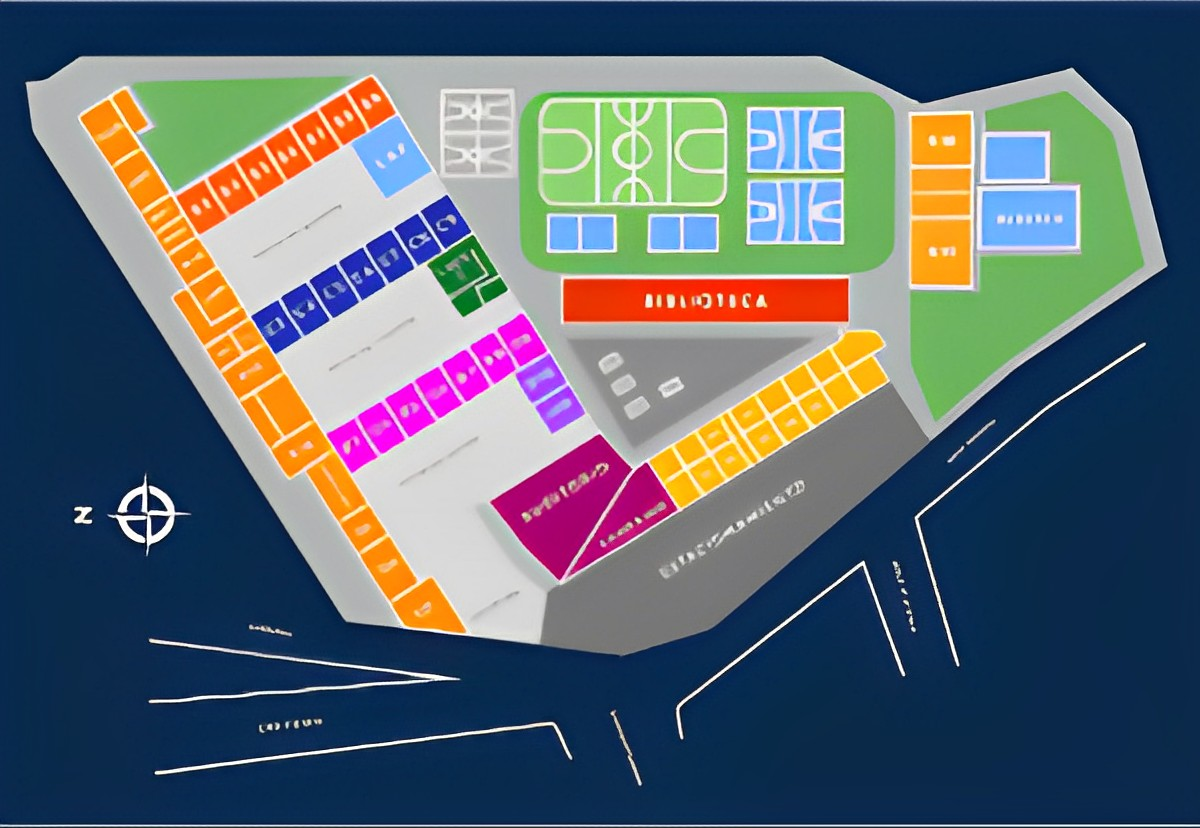
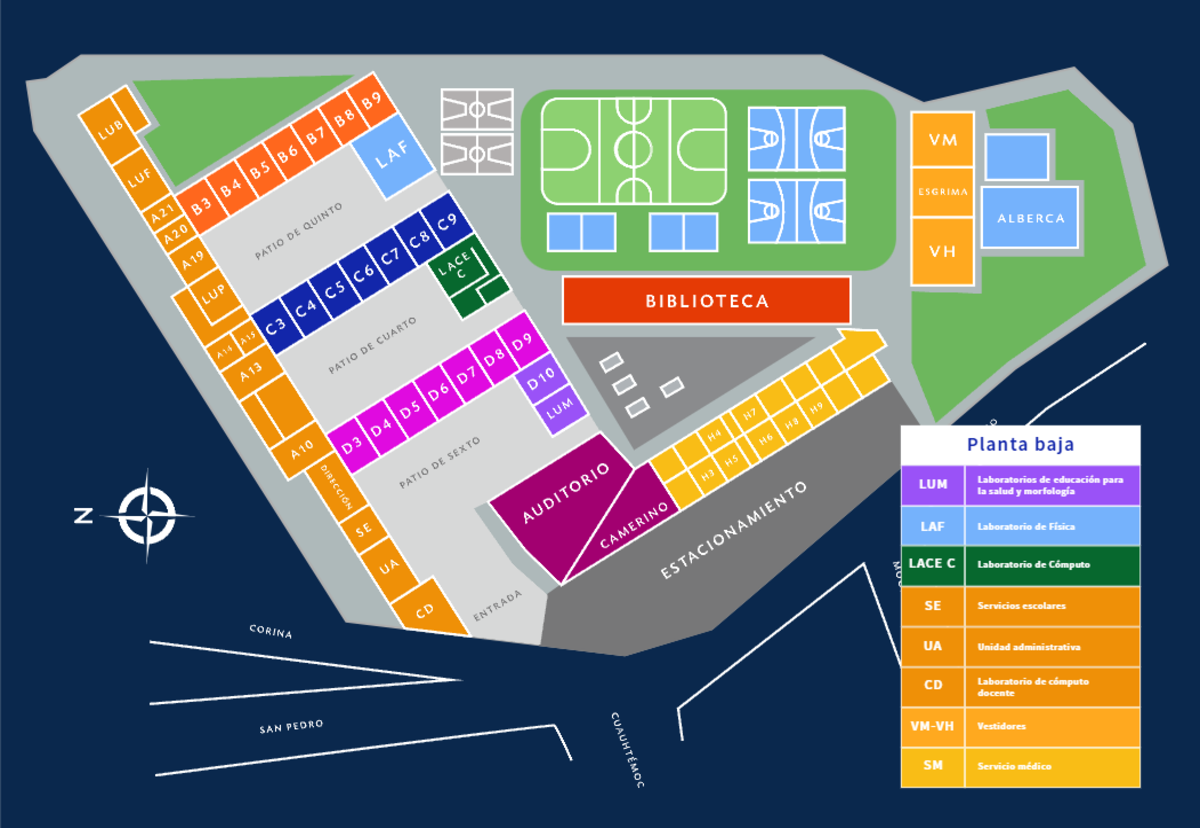
Feat: agrega apartado de juegos y comentarios, junto  con  el mapa mapeado de ventas y busqueda

diff --git a/FINAL/Dynamics/JS/juego.js b/FINAL/Dynamics/JS/juego.js
@@ -1,5 +1,5 @@
 const forogj = document.getElementById("forog");
-
+const dimensaj = document.getElementById("dimensaj")
 
 fetch("../Dynamics/PHP/juego.php")
     .then((respuesta)=>{
@@ -10,8 +10,49 @@ fetch("../Dynamics/PHP/juego.php")
         for (resultado of datosJSON)
                 {
                     forogj.innerHTML += `<div class="contlol"style= "color:white"><h1 style= "font-size: 
-                    30px">${resultado.Nombre_juego}</h1>${resultado.clasificacion}<br>${resultado.fecha_lanzamiento}<br>
-                    ${resultado.descripcion}<br>${resultado.consola}</div>`;
+                    30px"><img align="center "id="lollo" src="../Statics/media/chatsjuegos/league_logo.png" alt="Lollo"></h1>${resultado.clasificacion}<br>${resultado.fecha_lanzamiento}<br>
+                    ${resultado.descripcion}<br>${resultado.consola}<br><img align="center "id="lol" src="../Statics/media/chatsjuegos/LOL.jpeg" alt="Lol"></div>`;
                 }
 
     });
+
+    btne.addEventListener("click",()=>{
+        const desc = /^[\D\w]{3,30}$/i;
+        //descripción de 3-30 carácteres, si acepta números
+        const descrip = desc.test(input.value);
+        if(!descrip){
+            alert("Mensaje invalido, verifica que no se mayor a 30 caracteres o inferior a 3");
+        }
+        else{
+            console.log(input.value);
+            datosForm= new FormData();
+            datosForm.append("input", `${input.value}`)
+            fetch("../Dynamics/PHP/insert_mensajes.php",
+            {
+                method:"POST",
+                body:datosForm,
+            })
+            .then((respuesta)=>{
+                return respuesta.json();
+            }).then((datosJSON)=>{
+                console.log(datosJSON.mensaje);
+            });
+            window.location.href="./juego.html";
+        }
+        
+    });
+
+    fetch("../Dynamics/PHP/mensajes.php")
+    .then((respuesta)=>{
+        return respuesta.json();
+    }).then((datosJSON)=>{
+        console.log(datosJSON);
+        for (resultado of datosJSON)
+                {
+                    dimensaj.innerHTML += `<div class="mensajj"><h1 class="contm"><h1 id="usua">${resultado.Usuario}</h1>: ${resultado.Contenido} </h1></div>`;
+                }
+
+    });
+
+    
+

diff --git a/FINAL/Statics/styles/juego.css b/FINAL/Statics/styles/juego.css
@@ -226,10 +226,89 @@ header{
 {
     margin-top: 20px;
     padding-bottom: 10px;
-    background-color: #58595b;
     border-radius: 20px;
     border: 1px solid #FFFFFF;
     color: white;
+    width: 500px;
+    background-image: url(../media/chatsjuegos/lolf.png);
+
+}
+.contlol
+{
+    display: flex;
+    flex-direction: column;
+    align-items: center;
+    justify-content: center;
+}
+
+#lol{
+    width: 300px;
+}
+
+#lollo
+{
+    width: 300px;
+}
+#lollo:hover
+{
+    scale: 1.3;
+    transition: 1000ms;
+}
+
+#mensajes
+{
+    margin-top: 25px;
+}
+
+#dimensaj
+{
+    margin-top: 20px;
+    display: flex;
+    flex-direction:column-reverse ;
+}
+
+.mensajj
+{
+    margin-top: 20px;
+    font-size: 20px;
+    width: 450px;
+    background-color: #25282C;
+    color: white;
+    border-radius: 5px;
+    border: solid black 1px;
+    display: flex;
+    align-items: center;
+}
+
+input
+{
+    border-radius: 10px;
+    width: 430px;
+    background-color: #25282C;
+    color: white;
+    height: 45px;
+}
+#btne
+{
+    border-radius: 10px;
+    background-color: #25282C;
+    color: white;
+    height: 45px;
+}
+.contm
+{
+    width: fit-content;
+    color: white;
+    font-size: 7px;
+    height: 10px;
+}
+
+#usua
+{
+    width: fit-content;
+    font-size: 15px;
+    color: aqua;
+    height: 10px;
 }
 
 
@@ -269,6 +348,7 @@ header{
         background-color: #58595b;
         border-radius: 20px;
         border: 1px solid #FFFFFF;
+        
     }
 
 }

diff --git a/FINAL/Templates/juego.html b/FINAL/Templates/juego.html
@@ -73,6 +73,10 @@
                 </div>
             </div>
 
+            <div>
+                <!--<img src="" alt="">-->
+            </div>
+
         </div>
 
         <div id="contenidopc">
@@ -86,6 +90,14 @@
 
                 <div id="forog">
                     
+                </div>
+
+                <div id="mensajes">  
+                <input id="input" type="text" placeholder="Escribe un comentario" name="input"> <button type="submit" id="btne">Enviar</button>
+                </div>
+
+                <div id="dimensaj">
+
                 </div>
         </div>
 

diff --git a/FINAL/Statics/styles/Mapa.css b/FINAL/Statics/styles/Mapa.css
@@ -1,0 +1,29 @@
+body
+{
+    display: flex;
+    flex-direction: column;
+    justify-content: center;
+    align-items: center;
+    background-color: #a7a7a7;
+}
+
+#conten_error{
+    width: 300px;
+    height: 10rem;
+    display: flex;
+    flex-direction: column;
+    align-items: center;
+}
+#btn_error{
+    outline: none;
+    text-decoration: none;
+    width: 100px;
+    transition: 500ms;
+    background-color: #4777A7;
+    border-radius: 50px;
+    padding:10px;
+    color:white;
+}
+#btn_error:hover{
+    transform:scale(1.1);
+}

diff --git a/FINAL/Statics/styles/perdidos_general.css b/FINAL/Statics/styles/perdidos_general.css
@@ -161,3 +161,30 @@ scale: 1.1;
 transition: 500ms;
 cursor: pointer;
 }
+#mapa
+{
+    position: absolute;
+    top: 10rem;
+    left: 4rem;
+}
+
+@media (max-height:710px){
+
+    #contpubli
+    {
+        width: 233.33px;
+    }
+
+    h2
+    {
+        font-size: 0.8rem;
+    }
+
+    p
+    {
+        font-size: 0.8rem;
+        width:fit-content;
+        color: blue;
+        border-bottom:solid blue 1px;
+    }
+}

diff --git a/FINAL/Statics/styles/ventas_general.css b/FINAL/Statics/styles/ventas_general.css
@@ -170,6 +170,13 @@ transition: 500ms;
 cursor: pointer;
 }
 
+#mapa
+{
+    position: absolute;
+    top: 10rem;
+    left: 4rem;
+}
+
 @media (max-height:710px){
 
     #contpubli

diff --git a/FINAL/Dynamics/PHP/insert_mensajes.php b/FINAL/Dynamics/PHP/insert_mensajes.php
@@ -1,0 +1,27 @@
+<?php
+require "config.php";
+$input=(isset($_POST['input']) && $_POST["input"] != "")? $_POST['input'] : false;
+
+    session_start();
+    $IDu= $_SESSION["ID"];
+    $Usu=$_SESSION["Usuario"];
+    $conexion = connect ();
+    if(!$conexion)
+    {
+        echo "No se puedo conectar la base";
+    }else{
+         if($input)
+        {
+            $sql =  "INSERT INTO mensajesj VALUES (NULL, $IDu, 1, '$input', 0, '$Usu')";
+            $res = mysqli_query($conexion, $sql);
+            if(!$res)
+            {
+                $respuesta = array("ok"=>false, "mensaje" => "No se pudo mandar el mensaje");
+            } else{
+                $respuesta = array("ok"=>true, "mensaje" => "Se envio el mensaje");
+            }
+           
+        }
+        echo json_encode($respuesta);
+    }
+?>

diff --git a/FINAL/Dynamics/PHP/Mapa_perdidos.php b/FINAL/Dynamics/PHP/Mapa_perdidos.php
@@ -26,8 +26,8 @@
     <area target="_parent" alt="Canchitas" title="Canchitas" href="https://www.prepa6.unam.mx/ENP6/_P6/plantel/img/instalaciones/areas_deportivas6.jpg" coords="440,88,519,175" shape="rect">
 </map>
 
-    <div id='conten_error'><h1 id='error'>Regresar a ventas</h1><br>
-            <a class='boton' id='btn_error' align='center' href='./ventas_general.php'>Ventas</a></div>
+    <div id='conten_error'><h1 id='error'>Regresar a busquedas</h1><br>
+            <a class='boton' id='btn_error' align='center' href='./perdidos_general.php'>Buscar perdidos</a></div>
 
 </body>
 </html>

diff --git a/FINAL/Dynamics/PHP/mensajes.php b/FINAL/Dynamics/PHP/mensajes.php
@@ -5,10 +5,10 @@ require "config.php";
     {
         echo "No se puedo conectar la base";
     }else{
-        $sql =  "SELECT * FROM juegos WHERE Nombre_juego = 'League of Legends(LOL)'";
+        $sql =  "SELECT * FROM mensajesj WHERE ID_juego = 1";
         $res = mysqli_query($conexion, $sql);
         $respuesta = [];
-        while( $datos = mysqli_fetch_assoc($res)){
+        while( $datos = mysqli_fetch_array($res)){
             $respuesta[] = $datos;
         }
         echo json_encode($respuesta);

diff --git a/FINAL/Dynamics/PHP/perdidos_general.php b/FINAL/Dynamics/PHP/perdidos_general.php
@@ -60,6 +60,13 @@
 
     <div id="btn_nuevoForo"></div>
 
+    <div id="mapa">
+        <img src="../../Statics/media/minimap.png" usemap="#image-map">
+            <map name="image-map">
+                <area target="_self" alt="MapaPN6" title="MapaPN6" href="./Mapa_perdidos.php" coords="1,1,299,204" shape="rect">
+            </map>
+    </div>  
+
     </main>
 </body>
 </html>

diff --git a/FINAL/Dynamics/PHP/ventas_general.php b/FINAL/Dynamics/PHP/ventas_general.php
@@ -60,6 +60,13 @@
 
     <div id="btn_nuevoForo"></div>
 
+    <div id="mapa">
+        <img src="../../Statics/media/minimap.png" usemap="#image-map">
+            <map name="image-map">
+                <area target="_self" alt="MapaPN6" title="MapaPN6" href="./Mapa.php" coords="1,1,299,204" shape="rect">
+            </map>
+    </div>    
+
     </main>
 </body>
 </html>
